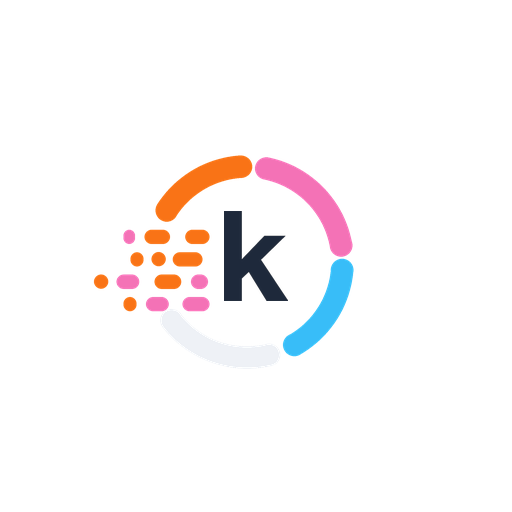
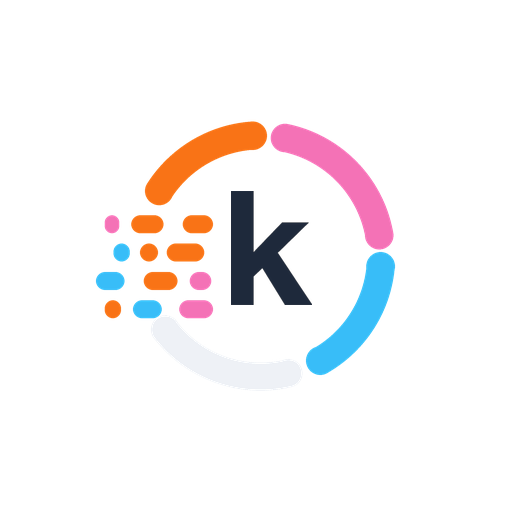
feat: 아이콘 로고를 키우고 잔상에 하늘색을 섞는다
설치 아이콘의 로고가 작아 보였다. 원인은 잔상 막대 하나였다. 13개 중 셋째 줄
맨 앞 하나만 왼쪽 끝이 반지름의 1.434배 지점에 있어, 그 다음으로 먼 막대(1.224배)보다
0.21배 더 튀어나와 있었다. 캔버스는 가장 먼 지점에 맞춰야 하므로 이 하나가 폭을
잡아먹고 링을 그만큼 줄이고 있었다. 빼면 남은 12개로도 흩날리는 결은 그대로다.

배치 기준도 k 상자에서 잉크 무게중심으로 옮긴다. k를 상자째 정중앙에 두면 잔상
반대쪽 빈 자리 때문에 링이 61%까지 작아지는데, 무게중심 기준이면 78%이고 눈에는
여전히 가운데로 읽힌다. 두 변경을 합쳐 링이 58%에서 78%가 됐다.

잔상에는 하늘색 셋을 넣는다. 링에는 주황과 핑크와 하늘이 다 있는데 잔상에는
둘뿐이었다. 한 줄에 몰리지 않도록 위, 왼쪽, 아래로 흩는다.

로그인과 로딩 화면은 마크를 홀로 가운데 두는 자리라, 상자를 가운데 맞추면 로고
몸통이 오른쪽에 앉는다. 왼쪽 잔상이 상자 폭을 늘리지만 옅고 흩어져 있어 시각적
무게는 그만큼 되지 않기 때문이다. 잉크 무게중심만큼 되민다. 잔상이 바뀌며 그 값도
8%에서 4.6%로 다시 쟀다.

파비콘은 잔상이 없어 링 하나로 대칭이므로 링을 그대로 캔버스 가운데 둔다.

Changed region(s): [[0.1875, 0.2188, 0.7812, 0.75]]

diff --git a/frontend/src/pages/LoginPage.tsx b/frontend/src/pages/LoginPage.tsx
@@ -21,7 +21,10 @@ export function LoginPage() {
 
   return (
     <main className="mx-auto flex min-h-dvh max-w-md flex-col items-center justify-center px-6 text-center">
-      <AppMark className="h-16 w-auto" />
+      {/* 상자를 가운데 두면 로고 몸통이 오른쪽에 앉는다 — 왼쪽 잔상이 상자 폭을 늘리지만
+          옅고 흩어져 있어 시각적 무게는 그만큼 되지 않는다. 잉크 무게중심만큼 되민다.
+          4.6%는 마크에서 실측한 값이다 — 잔상을 고치면 다시 재야 한다 */}
+      <AppMark className="h-16 w-auto -translate-x-[4.6%]" />
       <h1 className="mt-4 text-3xl font-bold text-brand-ink">칼로그</h1>
       <p className="mt-2 text-muted">사진 한 장으로 10초 안에 기록하는 체중 관리</p>
       {error && (

diff --git a/frontend/src/ui/LoadingScreen.tsx b/frontend/src/ui/LoadingScreen.tsx
@@ -16,7 +16,8 @@ export function LoadingScreen({ message }: { message: string }) {
           aria-hidden
           className="absolute inset-0 animate-spin rounded-full border-4 border-border border-t-brand"
         />
-        <AppMark className="h-10 w-auto" />
+        {/* 회전하는 링 한가운데 놓이므로 잉크 무게중심을 기준으로 맞춘다 (LoginPage와 같은 이유) */}
+        <AppMark className="h-10 w-auto -translate-x-[4.6%]" />
       </div>
       <p role="status" className="text-sm font-medium text-muted">
         {message}
